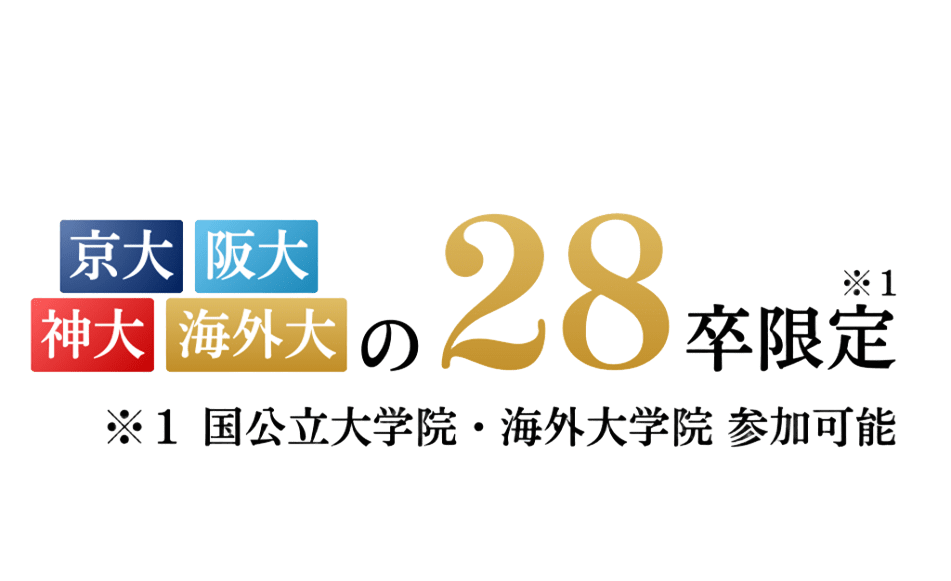
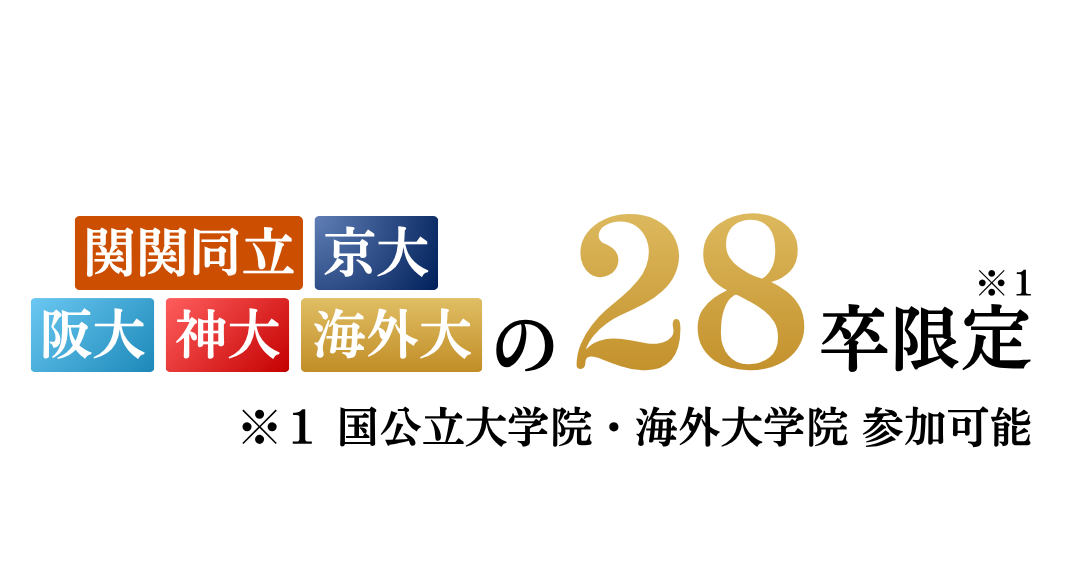
4.30修正

Changed region(s): [[0.0305, 0.3408, 0.9453, 0.6506], [0.2135, 0.6816, 0.9453, 0.7745], [0.0915, 0.6816, 0.183, 0.7745]]

diff --git a/src/components/CompaniesSection.tsx b/src/components/CompaniesSection.tsx
@@ -46,105 +46,74 @@ const CompaniesSection = () => {
     { 
       id: 1, 
       name: "Kubota", 
-      tags: ["決済サービス", "国際ブランド"], 
+      tags: ["グローバル", "社会課題解決"], 
       logoImage: "/logo-Kubota.png",
       url: "https://www.jcb.co.jp/?link_id=cojp_logo",
       details: {
-        catchphrase: "日本発唯一の国際ブランドとして、世界の決済インフラを創る",
+        catchphrase: "食料・水・環境の課題解決で、地球と人類の未来を支える",
         stats: [
-          { label: "年間取扱高", value: "50兆2,091億円（2024年度実績）" },
-          { label: "従業員数", value: "4,531名（2025年9月末現在）" },
-          { label: "会員数", value: "1億6,977万会員（2025年3月末現在）" },
-          { label: "成長環境", value: "若手からグローバルに活躍できる環境" }
+          { label: "売上高", value: "3兆163億円（2024年12月期実績）" },
+          { label: "従業員数", value: "52,094名（2024年12月末現在・連結）" },
+          { label: "グローバル展開", value: "海外売上高比率 79.0%（世界120カ国以上）" },
+          { label: "成長環境", value: "若手からグローバルな社会課題解決に挑める環境" }
         ],
-        strength: "年間50兆円規模の取扱高と世界約7,100万店の加盟店という圧倒的な大企業の安定基盤を持ちつつ、日本発唯一の国際カードブランドとして世界中の巨大競合と戦うベンチャー気質を併せ持っています。約4,500名という少数精鋭体制のため、若手からスケールの大きな決済インフラの構築やダイナミックな新規事業に関わるチャンスが豊富です。"
+        strength: "農業機械や鋳鉄管などで国内トップクラス、世界有数のシェアを誇るグローバルメーカー。年間3兆円規模の売上と約80%の海外売上比率という強固な経営基盤を持ちながら、世界的な食料問題や環境問題といった人類の根幹に関わる課題解決に直結するビジネスを展開している。入社早期からグローバルな舞台での活躍や、社会インフラを支えるダイナミックな事業に携わるチャンスが豊富に用意されている。"
       }
     },
+    
     { 
       id: 2, 
-      name: "野村證券", 
-      tags: ["国内最大手証券", "金融"], 
-      logoImage: "/logo-野村證券.png",
-      url: "https://www.nomura.co.jp/",
+      name: "船井総合研究所", 
+      tags: ["経営コンサル", "若手裁量"], 
+      logoImage: "/logo-船井総研.png",
+      url: "https://www.ms-ins.com/",
       details: {
-        catchphrase: "国内トップの顧客基盤とグローバル網で、資本市場の未来を創る",
+        catchphrase: "中堅・中小企業の「サステナグロース（持続的成長）」を実現する",
         stats: [
-          { label: "純営業収益", value: "7,238億円（2025年3月期実績）" },
-          { label: "従業員数", value: "13,775名（2025年3月末時点）" },
-          { label: "顧客資産残高", value: "約144兆円（2025年3月末）" },
-          { label: "平均年収", value: "約1,000万円" }
+          { label: "売上高", value: "306億4,500万円（2024年12月期実績・グループ連結）" },
+          { label: "従業員数", value: "1,535名（2024年12月末現在・グループ連結）" },
+          { label: "クライアント規模", value: "国内数千社の中堅・中小企業" },
+          { label: "成長環境", value: "早期から経営者と対峙し圧倒的な場数を踏める環境" }
         ],
-        strength: "約144兆円の顧客資産と国内約4割のIPO主幹事シェアという、他社の追随を許さない大企業の強固な安定基盤を誇ります。日本経済の血流である金融の最前線で、スタートアップの創出からグローバル企業の成長支援まで、スケールの大きな社会課題解決に直結するダイナミックな仕事です。"
+        strength: "日本最大級のコンサルティングファームとして、国内の中堅・中小企業の経営者と直接対峙し、業績向上や組織課題の解決を支援している。「業種別×テーマ別」の専門特化型コンサルティング体制を敷いており、入社早期から経営層への直接提案を行うことで圧倒的な場数を踏むことが可能。「新卒から3年で日本一のコンサルタント」を目指せるなど、高い専門性とコンサルティングスキルを身につけ、プロフェッショナルとして自立できる環境が整っている。"
       }
     },
     { 
       id: 3, 
-      name: "三井住友海上火災保険", 
-      tags: ["損害保険", "メガソンポ"], 
-      logoImage: "/logo-三井住友海上火災保険.png",
-      url: "https://www.ms-ins.com/",
+      name: "クスリのアオキ", 
+      tags: ["食料＆医薬品", "1000店舗超"], 
+      logoImage: "/logo-クスリのアオキ.png",
+      url: "https://www.nippon-shinyaku.co.jp/",
       details: {
-        catchphrase: "グローバルに展開する国内トップクラスの損保",
+        catchphrase: "「健康と美と衛生」を通しての社会貢献と、近くて便利な生活拠点づくり",
         stats: [
-          { label: "正味収入保険料", value: "1兆6,233億円（2024年3月期実績）" },
-          { label: "従業員数", value: "12,143名（2024年3月現在）" },
-          { label: "海外ネットワーク", value: "41カ国・地域に展開（駐在員約240名）" },
-          { label: "働き方", value: "多様なキャリアパスと柔軟な働き方" }
+          { label: "売上規模", value: "5,014億7,000万円（2025年5月期実績）" },
+          { label: "従業員数", value: "5,627名（2025年5月期現在・常勤社員）" },
+          { label: "事業規模", value: "1,000店舗達成（2025年3月時点）" },
+          { label: "成長環境", value: "早期から店舗マネジメントを経験しキャリアを拓く環境" }
         ],
-        strength: "総資産約28兆円、グループ売上4.6兆円を誇るMS&ADグループの中核として、いかなる巨大リスクも引き受けられる圧倒的な安定基盤が最大の武器です。一方で、世界41カ国・地域への展開やASEAN市場でのトップシェア獲得、さらには宇宙ビジネスやサイバー領域など最先端の保険開発に挑むベンチャー的な開拓精神も併せ持ちます。"
+        strength: "2025年に全国1,000店舗を達成し、売上高5,000億円規模を誇る急成長中のドラッグストアチェーン。医薬品や日用品だけでなく、生鮮食品の取り扱いや調剤薬局の併設（併設率66%超）により、地域のインフラとして確固たる地位を築いている。入社1年目から店舗運営のマネジメントを経験し、その後は店長やエリアマネージャー、本社の中枢部署へとキャリアを広げていく実践的かつスピード感のある成長環境が強み。"
       }
     },
     { 
       id: 4, 
-      name: "日本新薬", 
-      tags: ["医薬品", "研究開発"], 
-      logoImage: "/logo-日本新薬.png",
-      url: "https://www.nippon-shinyaku.co.jp/",
-      details: {
-        catchphrase: "難病・希少疾患に挑む、独自性の高い創業100年超の創薬型企業",
-        stats: [
-          { label: "売上規模", value: "1,602億3,200万円（2024年度連結実績）" },
-          { label: "従業員数", value: "2,243名（2025年3月末現在・連結）" },
-          { label: "研究開発費", value: "売上の約15〜20%を投資（研究開発費343億円／2024年度実績）" },
-          { label: "社風", value: "患者さん第一の誠実で温かいカルチャー" }
-        ],
-        strength: "難病や希少疾患に苦しむ世界中の患者さんを救うという、社会貢献度の高いミッションを追究し続けています。100年以上の歴史に裏打ちされた大企業としての強固な安定基盤を持ち、医薬品と機能食品という独自性のある2本柱で盤石な経営を続けています。約2,200名という少数精鋭の規模感だからこそ、組織の歯車にならず、若手から革新的なプロジェクトに手触り感を持って携わることができるのが最大の魅力です。"
-      }
-    },
-    { 
-      id: 5, 
-      name: "ナハト", 
-      tags: ["マーケティング", "急成長"], 
-      logoImage: "/logo-ナハト.png",
-      url: "https://nahato.co.jp/",
-      details: {
-        catchphrase: "SNSマーケティングを牽引する急成長ベンチャー",
-        stats: [
-          { label: "売上規模", value: "130〜290億円規模（推定）" },
-          { label: "従業員数", value: "約450名規模" },
-          { label: "成長性", value: "設立数年で売上100億円を突破" },
-          { label: "若手の活躍", value: "平均年齢26.7歳、早期管理職多数" }
-        ],
-        strength: "圧倒的な成長率を誇る急成長ベンチャーです。入社1〜2年でマネージャーへ早期昇格する実績が多数あり、若手が組織の中核を担って事業を牽引しています。"
-      }
-    },
-    { 
-      id: 6, 
       name: "AnyMind Group", 
-      tags: ["マーケティング", "ITメガベン"], 
+      tags: ["メガベン", "グローバルIT"], 
       logoImage: "/logo-anymind.png",
-      url: "https://anymindgroup.com/ja/",
+      url: "https://www.nomura.co.jp/",
       details: {
-        catchphrase: "アジアを起点に世界を牽引するテクノロジーカンパニー",
+        catchphrase: "境界のない新しい世界を創り出し、アジアから世界を牽引する",
         stats: [
-          { label: "売上規模", value: "507.1億円（2024年度連結実績）" },
-          { label: "従業員数", value: "2,000名以上（2024年時点）" },
-          { label: "グローバル", value: "アジアを中心に15ヵ国・地域、25拠点を展開" },
-          { label: "直近成長率", value: "売上高成長率+52%（2024年度実績）" }
+          { label: "純営業収益", value: "507.1億円（2024年12月期実績）" },
+          { label: "従業員数", value: "1,800名以上（2024年時点）" },
+          { label: "グローバル拠点", value: "アジアを中心に15ヵ国・地域" },
+          { label: "成長環境", value: "国境を越えて圧倒的なスピードで成長できる環境" }
         ],
-        strength: "2016年の創業からわずか8年で売上507億円を叩き出す桁外れのベンチャー的成長性と、アジア15カ国に広がる25拠点のネットワークというグローバルな安定基盤を両立しているのが最大の強みです。ブランドの企画から生産、EC構築、マーケティング、物流までをワンストップで支援する独自のプラットフォームを展開しており、若手のうちから国境を越えたビジネスやダイナミックな新規事業に手触り感を持って挑むことができます。"
+        strength: "2016年の創業から短期間でアジア15ヵ国・地域へ展開し、2024年度には売上高500億円を突破した急成長中のメガベンチャー。マーケティング、EC、D2Cプラットフォームなどを包括的に支援する独自の「BPaaS」モデルでクライアントのDXを牽引している。多様な国籍のメンバーが在籍し、20代から海外拠点のマネジメントに抜擢されるなど、若手から国境を越えてスケールの大きなビジネスを動かす圧倒的な成長機会がある。"
       }
     },
+    { id: 5, name: "Coming Soon", tags: ["？？？", "？？？"], isComingSoon: true },
+    { id: 6, name: "Coming Soon", tags: ["？？？", "？？？"], isComingSoon: true },
   ];
 
   return (

diff --git a/src/components/OverviewSection.tsx b/src/components/OverviewSection.tsx
@@ -11,26 +11,26 @@ const OverviewSection = () => {
       content: (
         <div className="space-y-4">
           <div>
-            <p className="font-bold mb-1">ミーティングスペースAP大阪茶屋町ルームH・I</p>
+            <p className="font-bold mb-1">グランフロント大阪北館タワーC 8階　Room C03,4</p>
             <p className="text-sm text-slate-500">
-              〒530-0013 大阪府大阪市北区茶屋町１−２７ ABC-MART梅田ビル 8F
+              〒530-0013 大阪府大阪市北区梅田3-2-1 グランフロント大阪北館タワーC 8階　Room C03
             </p>
             <p className="text-xs text-[#B8860B] mt-1 flex items-center gap-1 font-bold">
               <MapPin className="w-3 h-3" />
               大阪梅田駅 1分 / 大阪駅 3分
             </p>
           </div>
-          {/* Googleマップ埋め込み */}
-          <div className="w-full h-48 bg-slate-100 rounded-lg overflow-hidden border border-slate-200">
+          {/* ▼▼▼ 修正：Googleマップ埋め込み（JSX記法に変換・レスポンシブ維持） ▼▼▼ */}
+          <div className="w-full h-48 md:h-64 bg-slate-100 rounded-lg overflow-hidden border border-slate-200 mt-2">
             <iframe 
-              src="https://www.google.com/maps/embed?pb=!1m18!1m12!1m3!1d1640.0053472253137!2d135.49698449839477!3d34.7049102!2m3!1f0!2f0!3f0!3m2!1i1024!2i768!4f13.1!3m3!1m2!1s0x6000e693c9434093%3A0x4ebbe9d36594c0a8!2z44Of44O844OG44Kj44Oz44Kw44K544Oa44O844K5QVDlpKfpmKrojLblsYvnlLo!5e0!3m2!1sja!2sjp!4v1769416781372!5m2!1sja!2sjp" 
+              src="https://www.google.com/maps/embed?pb=!1m18!1m12!1m3!1d1564.1141383258237!2d135.49340150877455!3d34.70613884994235!2m3!1f0!2f0!3f0!3m2!1i1024!2i768!4f13.1!3m3!1m2!1s0x6000e70063e8d081%3A0x23702cb51a614da2!2z44Kw44Op44Oz44OV44Ot44Oz44OI5aSn6ZiqIOOCv-ODr-ODvEM!5e0!3m2!1sja!2sjp!4v1774847969107!5m2!1sja!2sjp" 
               width="100%" 
               height="100%" 
               style={{ border: 0 }} 
               allowFullScreen={true} 
               loading="lazy" 
               referrerPolicy="no-referrer-when-downgrade"
-              title="ミーティングスペースAP大阪茶屋町 地図"
+              title="グランフロント大阪 カンファレンスルームタワーC 地図"
             ></iframe>
           </div>
         </div>
@@ -41,7 +41,7 @@ const OverviewSection = () => {
       content: (
         <ul className="list-disc list-outside pl-4 space-y-2">
           {/* ▼▼▼ 修正：参加対象を3月版のフォーマットに合わせる ▼▼▼ */}
-          <li>京大・阪大・神大・海外大・国公立大学院・海外大学院に通う学生</li>
+          <li>関関同立・京大・阪大・神大・海外大・国公立大学院・海外大学院に通う学生</li>
           <li>2027年4月から2028年3月に大学・大学院を卒業または卒業見込みの方</li>
           <li>
             個別事前選考面談に参加できる方
@@ -52,7 +52,7 @@ const OverviewSection = () => {
     },
     {
       label: "参加定員",
-      content: "30名（選考面談あり）"
+      content: "50名（選考面談あり）"
     },
     {
       label: "参加費",
@@ -68,7 +68,7 @@ const OverviewSection = () => {
     },
     {
       label: "持ち物",
-      content: "筆記用具、スマートフォン"
+      content: "学生証・筆記用具・スマートフォン"
     },
   ];
 

diff --git a/src/components/NextEventSection.tsx b/src/components/NextEventSection.tsx
@@ -16,12 +16,12 @@ const NextEventSection = () => {
             {/* ラベル */}
             <span className="inline-flex items-center gap-1.5 text-xs font-bold text-slate-500 mb-1 bg-white border border-slate-100 px-4 py-2 rounded-full shadow-sm">
               <CalendarDays className="w-4 h-4 text-[#B8860B]" />
-              4月26日の日程が合わない方へ
+              5月9日の日程が合わない方へ
             </span>
             
             {/* 見出し */}
             <h3 className="text-xl md:text-2xl font-serif font-bold text-[#0B1E46] leading-relaxed">
-              <span className="text-[#B8860B] pb-1 mr-1">5月</span> <br />
+              <span className="text-[#B8860B] pb-1 mr-1">6月</span> <br />
               開催枠も現在準備中です
             </h3>
             
@@ -35,7 +35,7 @@ const NextEventSection = () => {
             <div className="w-full sm:w-auto flex justify-center">
               <div className="inline-flex items-center justify-center gap-2 bg-slate-200 text-slate-500 px-8 py-4 rounded-full font-bold text-sm shadow-inner cursor-not-allowed w-full sm:w-auto whitespace-nowrap">
                 <Clock className="w-4 h-4" />
-                5月開催の詳細 Coming Soon...
+                6月開催の詳細 Coming Soon...
               </div>
             </div>
             

diff --git a/src/components/FAQSection.tsx b/src/components/FAQSection.tsx
@@ -22,7 +22,7 @@ const FAQSection = () => {
     },
     {
       question: "当日の服装に指定はありますか？",
-      answer: "なんでもOKですが、オフィスカジュアル（綺麗め）な服装が好ましいです。"
+      answer: "オフィスカジュアル（綺麗め）な服装が好ましいです。"
     },
     {
       question: "途中参加・途中退席はできますか？",
@@ -30,7 +30,7 @@ const FAQSection = () => {
     },
     {
       question: "当日の持ち物は？",
-      answer: "筆記用具、スマートフォンをお持ちください。"
+      answer: "学生証・筆記用具・スマートフォンをお持ちください。"
     }
     
   ];

diff --git a/src/components/FeaturesSection.tsx b/src/components/FeaturesSection.tsx
@@ -5,7 +5,7 @@ const features = [
     number: "01",
     // ▼▼▼ タイトルと説明文を3月版（ハイクラス・海外大・院生含む）に修正 ▼▼▼
     title: "ハイクラス学生限定",
-    description: "参加者を 京大・阪大・神大・海外大・国公立大学院・海外大学院 の学生に限定。同じような志を持つ、レベルの高い仲間と出会える貴重な機会です。",
+    description: "参加者を関関同立以上の学生に限定。同じような志を持つ仲間と出会える貴重な機会です。",
     icon: Users,
   },
   {
